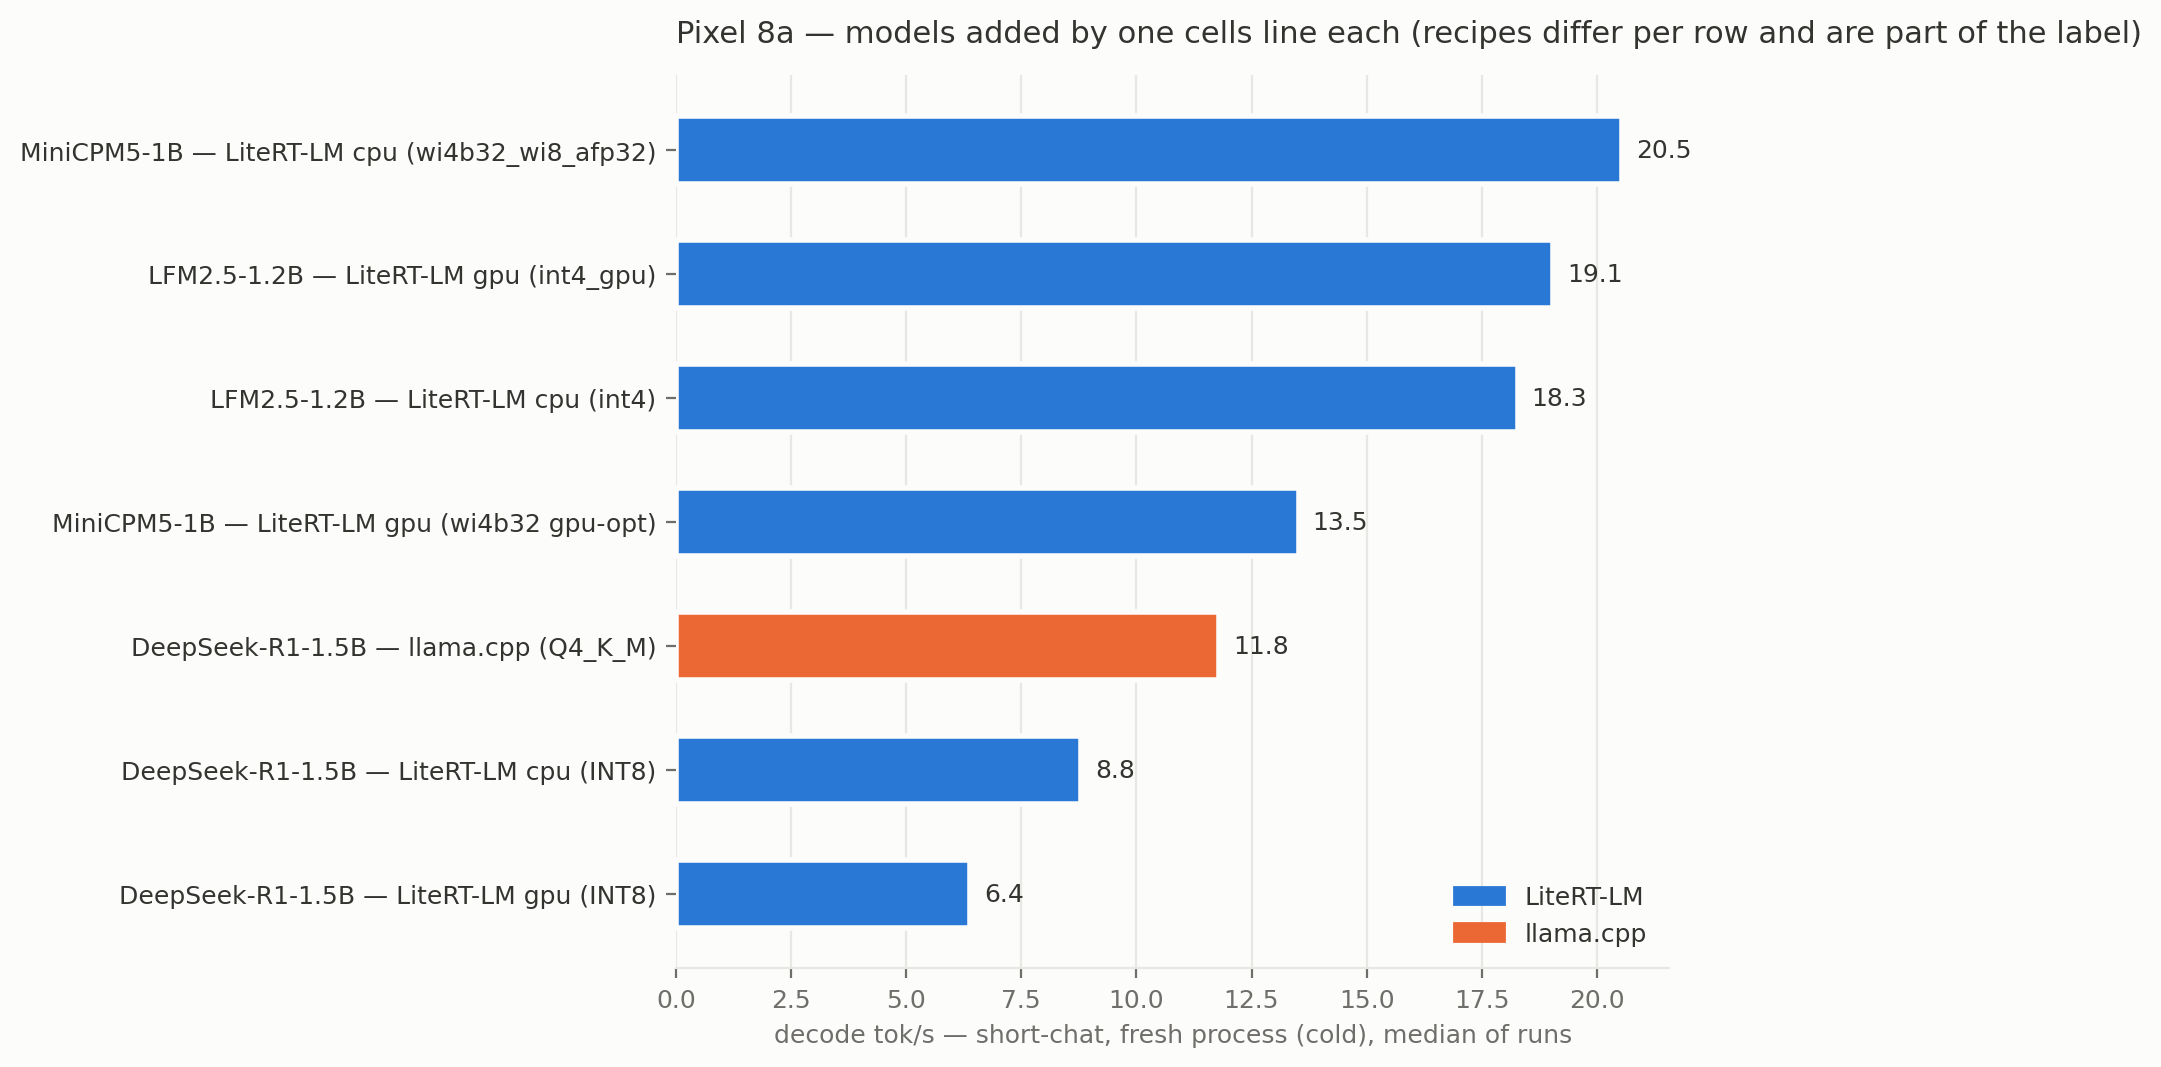
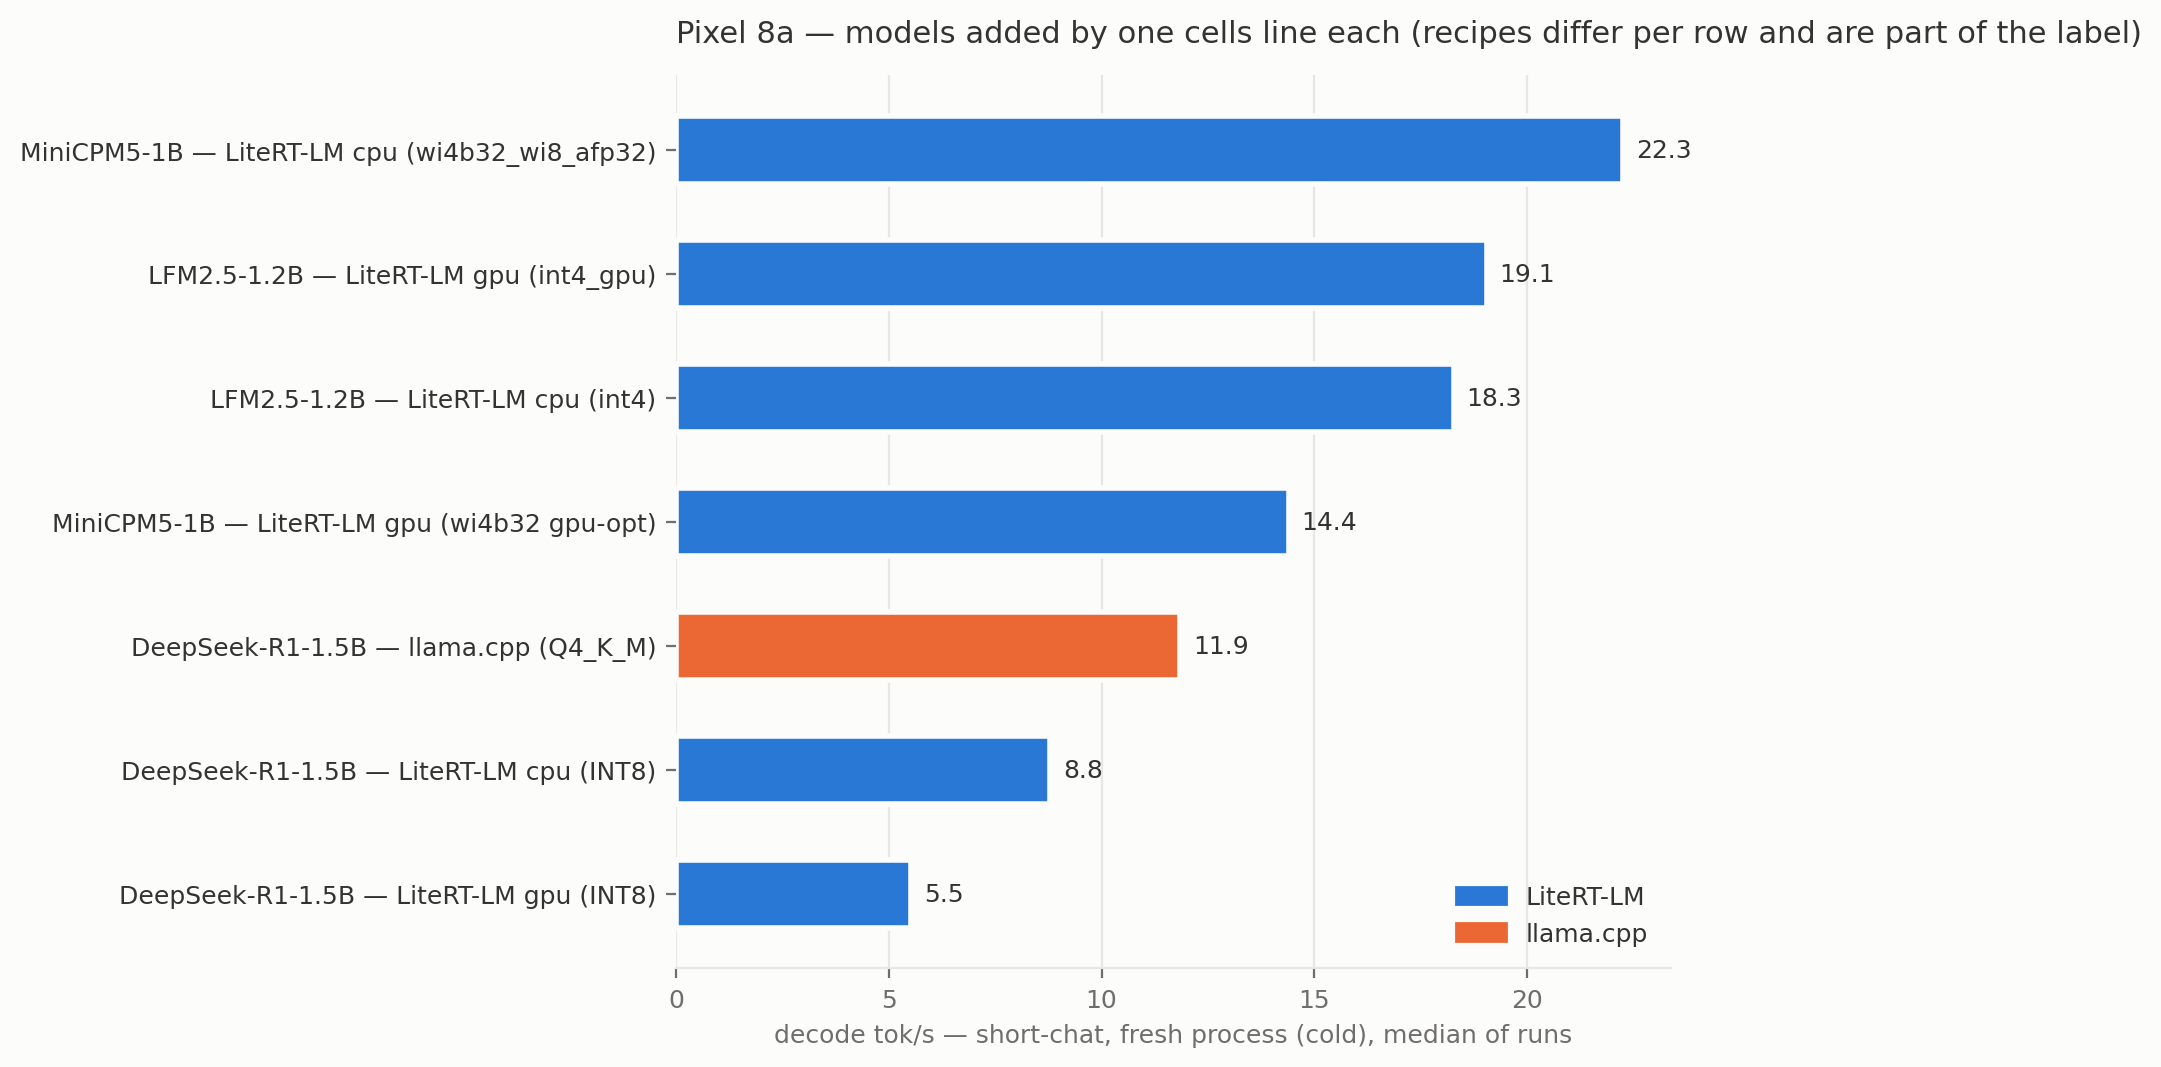
3-model demo table + unified thermal filter across chart and table
demo_models_table.png: just the three demo models, every arm with a number.
The Pixel bar chart now applies the same nominal+light filter as the tables —
the two published images had disagreed on one number (DeepSeek gpu 6.4 vs
5.5) because only one of them filtered thermal starts.

diff --git a/scripts/generate_charts.py b/scripts/generate_charts.py
@@ -123,14 +123,14 @@ def chart_pixel_demo():
     ]
     bars = []
     for disp, rt, msub, quant in spec:
-        med = None
-        for cold in ("True", "False"):
-            vals = [float(r["decode_tps"]) for r in load_rows()
-                    if r["platform"] == "android" and r["runtime"] == rt
-                    and msub in r["model_id"] and r["task"] == "short-chat"
-                    and r["cold_run"] == cold and r["decode_tps"]]
-            if vals:
-                med = statistics.median(vals + ([med] if med else []))
+        # same thermal tolerance as the table (nominal+light on Android) so the
+        # two published images can never disagree on a number
+        vals = [float(r["decode_tps"]) for r in rows
+                if r["platform"] == "android" and r["runtime"] == rt
+                and msub in r["model_id"] and r["task"] == "short-chat"
+                and r["decode_tps"]
+                and (r["thermal_initial"] or "") in ("nominal", "light", "")]
+        med = statistics.median(vals) if vals else None
         if med:
             arm = rt.replace("litert-lm-", "LiteRT-LM ") if rt.startswith("litert") else rt
             bars.append((f"{disp} — {arm} ({quant})", med, ARM_COLOR[rt]))
@@ -223,9 +223,66 @@ def chart_crossarm_table():
     plt.close(fig)
 
 
+def chart_demo_models_table():
+    """Just the three demo models, every arm that has a number (for chat posts)."""
+    rows = load_rows()
+    OK = {"mac": ("nominal", ""), "ios": ("nominal", ""),
+          "android": ("nominal", "light", "")}
+
+    def med(plat, rt, msub):
+        vals = [float(r["decode_tps"]) for r in rows
+                if r["platform"] == plat and r["runtime"] == rt
+                and msub in r["model_id"] and r["task"] == "short-chat"
+                and r["decode_tps"] and (r["thermal_initial"] or "") in OK[plat]]
+        return f"{statistics.median(vals):.1f}" if vals else "—"
+
+    data = [
+        ["DeepSeek-R1-Distill-1.5B",
+         "mlx 4bit " + med("mac", "mlx-swift", "DeepSeek") +
+         "\nLiteRT INT8 " + med("mac", "litert-lm", "DeepSeek"),
+         "llama.cpp Q4_K_M " + med("android", "llama.cpp", "DeepSeek"),
+         "cpu " + med("android", "litert-lm-cpu", "DeepSeek") +
+         " / gpu " + med("android", "litert-lm-gpu", "DeepSeek") + "  (INT8)"],
+        ["LFM2.5-1.2B-Instruct", "—", "—",
+         "cpu " + med("android", "litert-lm-cpu", "LFM2.5") + " (int4) / gpu " +
+         med("android", "litert-lm-gpu", "LFM2.5") + " (int4_gpu)"],
+        ["MiniCPM5-1B", "—", "—",
+         "cpu " + med("android", "litert-lm-cpu", "MiniCPM") +
+         " (wi4b32_wi8) / gpu " + med("android", "litert-lm-gpu", "MiniCPM") +
+         " (gpu-opt)"],
+    ]
+    cols = ["model", "Mac Studio M4 Max", "Pixel 8a — llama.cpp", "Pixel 8a — LiteRT-LM"]
+    fig, ax = plt.subplots(figsize=(13.2, 3.4), dpi=200)
+    fig.patch.set_facecolor(SURFACE)
+    ax.axis("off")
+    t = ax.table(cellText=data, colLabels=cols, loc="center", cellLoc="left",
+                 colWidths=[0.18, 0.22, 0.2, 0.4])
+    t.auto_set_font_size(False)
+    t.set_fontsize(9.5)
+    t.scale(1, 2.4)
+    for (r, c), cell in t.get_celld().items():
+        cell.set_edgecolor(GRID)
+        cell.set_text_props(color=INK)
+        if r == 0:
+            cell.set_text_props(color=MUTED, fontweight="bold")
+            cell.set_facecolor("#f0efec")
+        else:
+            cell.set_facecolor(SURFACE)
+    ax.set_title("Three models added by one config line each — decode tok/s, short-chat, "
+                 "fresh process.\nRecipes differ per cell and are stated in it; "
+                 "cross-recipe cells are deployment profiles, not one race. "
+                 "Pixel: runs starting past Android thermal 'light' excluded.",
+                 fontsize=10, color=INK, loc="left", pad=14)
+    fig.tight_layout()
+    fig.savefig(os.path.join(OUT, "demo_models_table.png"),
+                facecolor=SURFACE, bbox_inches="tight")
+    plt.close(fig)
+
+
 if __name__ == "__main__":
     n1 = chart_regression()
     n2 = chart_pixel_demo()
     chart_crossarm_table()
+    chart_demo_models_table()
     print(f"wrote {OUT}: v0160_regression_verdicts.png ({n1} cells), "
           f"pixel8a_model_demo.png ({n2} bars), crossarm_table.png")
